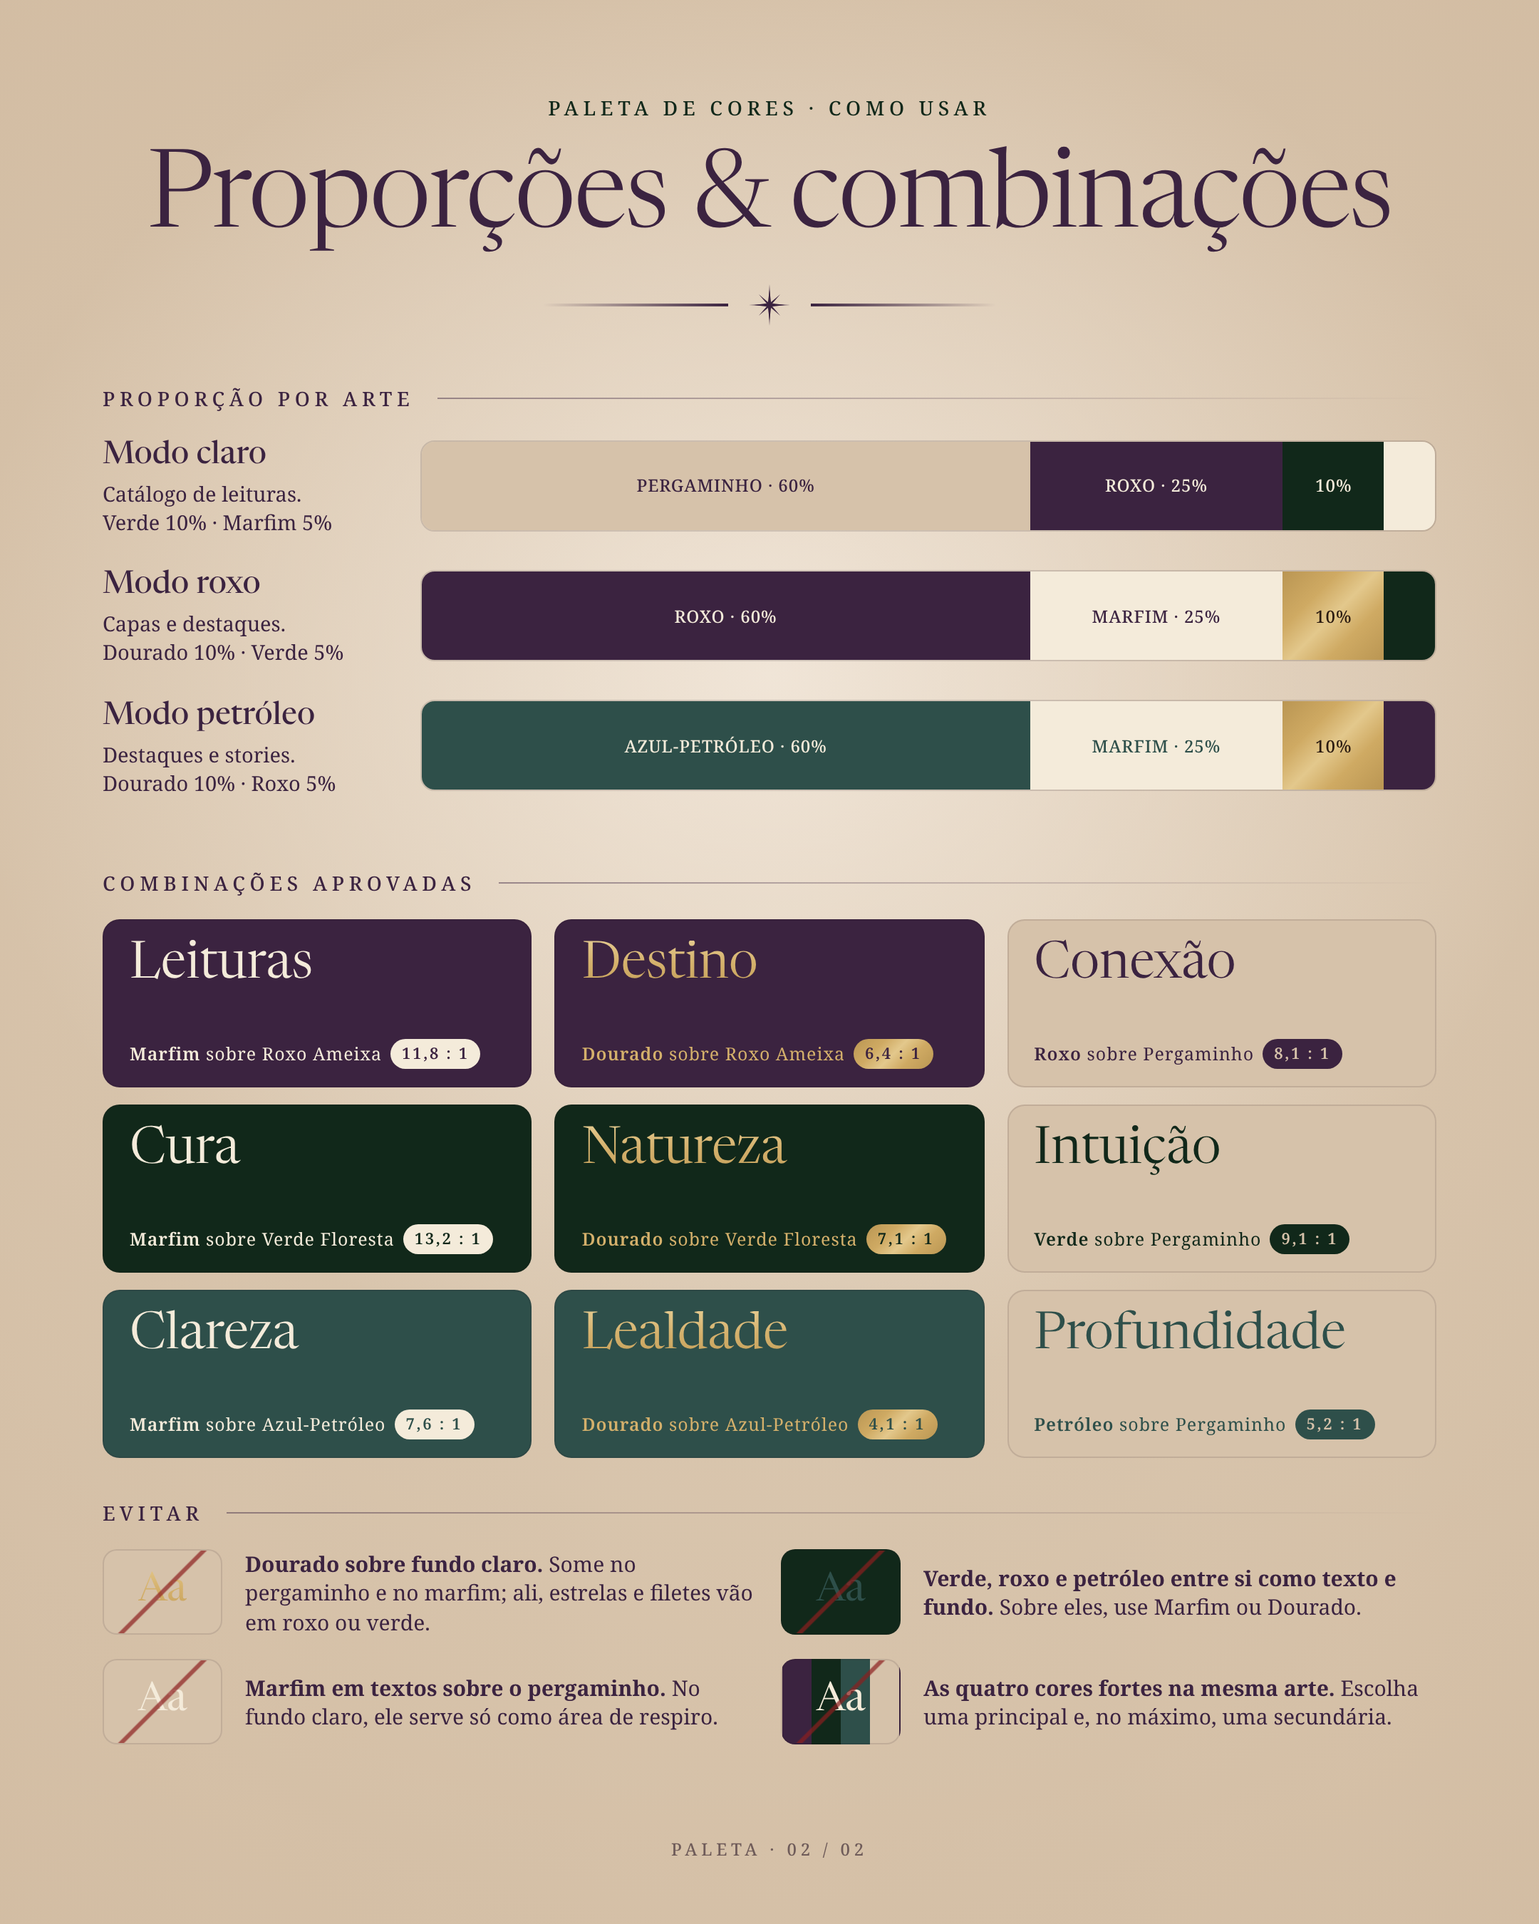
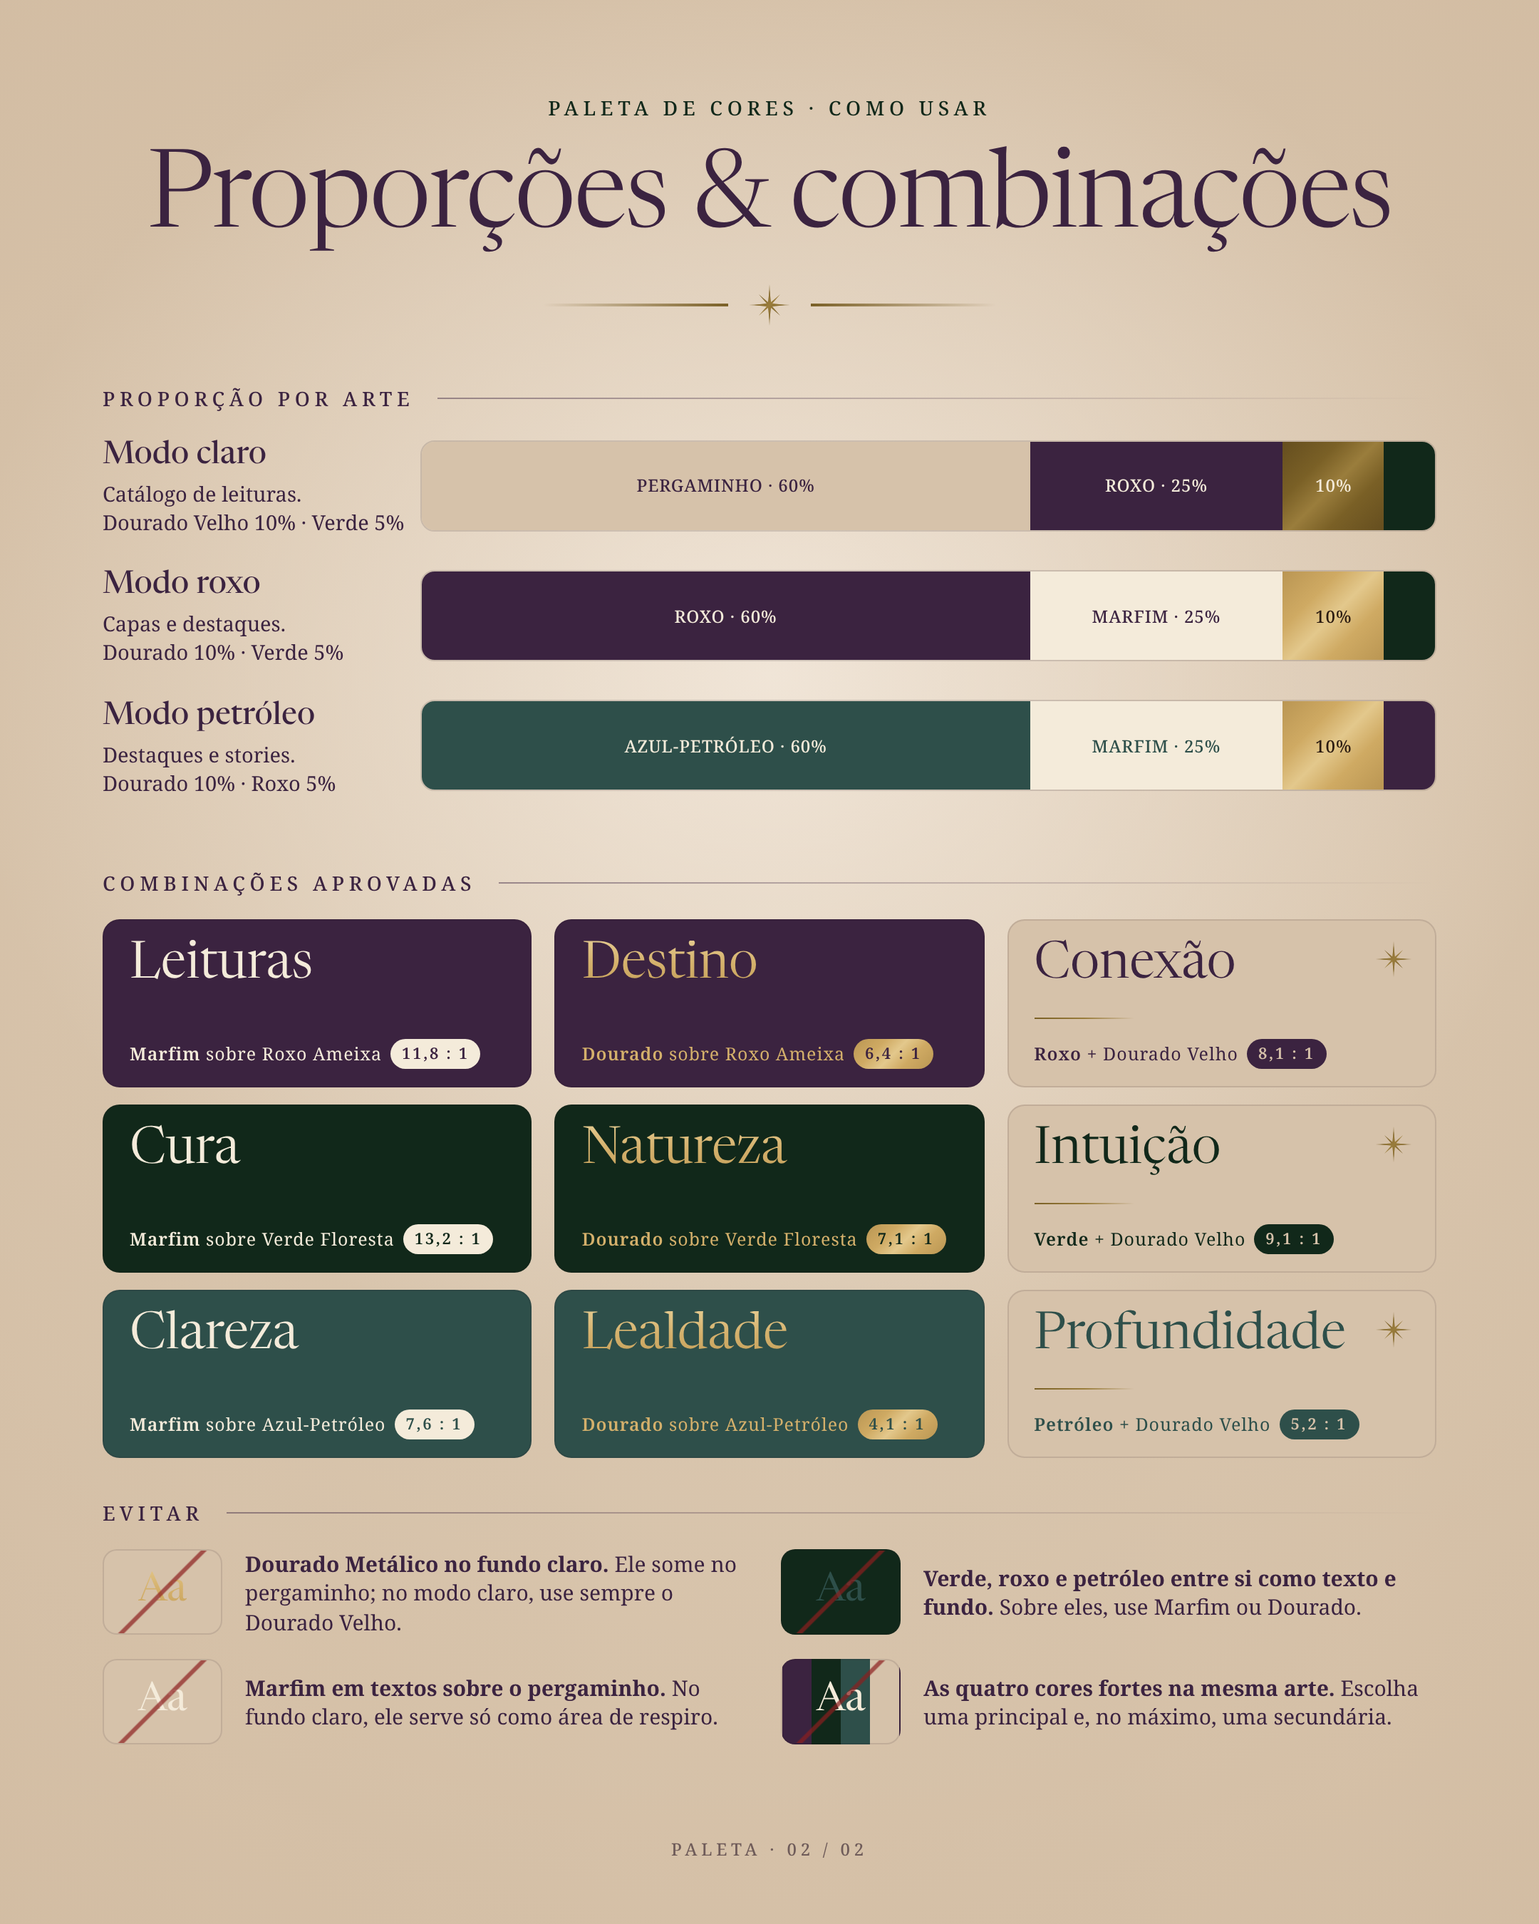
Paleta: dourado velho para o modo claro
Claude-Session: https://claude.ai/code/session_01GV2KUAp8ypSSPxbjxsJTeK

diff --git a/identidade/paleta/paleta.html b/identidade/paleta/paleta.html
@@ -7,7 +7,7 @@
 <style>
   :root{
     --roxo:#3B2340; --verde:#11281A; --petroleo:#2E4F4A;
-    --perg:#D6C2AA; --ouro:#CFAA63; --metal:linear-gradient(135deg,#BA9653 0%,#CFAA63 30%,#E3C88C 50%,#CFAA63 70%,#BA9653 100%); --linho:#F4EBDA; --tinta:#3B2340;
+    --perg:#D6C2AA; --ouro:#CFAA63; --metal:linear-gradient(135deg,#BA9653 0%,#CFAA63 30%,#E3C88C 50%,#CFAA63 70%,#BA9653 100%); --velho:linear-gradient(135deg,#654E1F 0%,#7A6026 30%,#9A7D3C 50%,#7A6026 70%,#654E1F 100%); --linho:#F4EBDA; --tinta:#3B2340;
   }
   *{margin:0;padding:0;box-sizing:border-box}
   body{background:#111;width:1080px}
@@ -15,6 +15,7 @@
   .tit{font-family:'Newsreader',serif;font-variation-settings:'opsz' 72;font-weight:340;letter-spacing:-.015em;line-height:1}
   .caps{font-weight:500;text-transform:uppercase;letter-spacing:.24em}
   .metal{background:linear-gradient(180deg,#E3C88C 0%,#D4B06B 45%,#C29E59 100%);-webkit-background-clip:text;background-clip:text;color:transparent !important}
+  .velho{background:linear-gradient(180deg,#957838 0%,#7A6026 50%,#654E1F 100%);-webkit-background-clip:text;background-clip:text;color:transparent !important}
   .orn{display:flex;align-items:center;justify-content:center;gap:14px}
   .orn i{display:block;height:1.2px;width:130px}
   .orn i:first-child{background:linear-gradient(90deg,transparent,#CFAA63)}
@@ -42,7 +43,7 @@
   .card .sig{grid-column:1/-1;font-style:italic;font-size:17px;color:var(--perg)}
   .card .rgb{grid-column:1/-1;font-size:13px;color:rgba(244,235,218,.6);letter-spacing:.08em}
 
-  .apoio{position:absolute;top:1026px;left:72px;right:72px}
+  .apoio{position:absolute;top:1030px;left:72px;right:72px}
   .apoio .rot{display:flex;align-items:center;gap:18px;font-size:13px;color:var(--ouro);margin-bottom:20px}
   .apoio .rot i{flex:1;height:1px;background:linear-gradient(90deg,rgba(212,176,106,.6),transparent)}
   .linha{display:grid;grid-template-columns:repeat(5,1fr);gap:16px}
@@ -68,6 +69,16 @@
   .ap .lin span{display:block;margin-top:4px;font-size:15px}
   .ap em{margin-top:8px !important}
   .ap small{display:block;font-size:12px;letter-spacing:.08em;color:rgba(244,235,218,.6);margin-top:10px}
+  .tres{display:grid;grid-template-columns:repeat(3,1fr);gap:18px}
+  .ap3{border-radius:14px;overflow:hidden;background:rgba(244,235,218,.06);border:1px solid rgba(212,176,106,.35)}
+  .ap3 .cor{height:62px}
+  .ap3 .tx{padding:12px 16px 14px}
+  .ap3 b{display:block;font-family:'Newsreader',serif;font-variation-settings:'opsz' 72;font-weight:400;font-size:25px;color:var(--linho);white-space:nowrap}
+  .ap3 span{display:block;font-size:14px;font-weight:500;color:var(--ouro);letter-spacing:.06em;margin-top:2px}
+  .ap3 em{display:block;font-size:13px;color:var(--perg);margin-top:6px;line-height:1.38}
+  .ap3 small{display:block;font-size:11px;letter-spacing:.06em;color:rgba(244,235,218,.6);margin-top:8px}
+  .ap3 .stops{margin-top:8px}
+  .ap3 .stops small{flex-basis:auto;margin:0 0 0 6px !important}
   .p1 .pe{position:absolute;bottom:44px;left:0;right:0;text-align:center;font-size:12px;color:rgba(212,176,106,.8)}
 
   /* ---------- página 2: clara ---------- */
@@ -79,8 +90,8 @@
   .p2 .eyebrow{font-size:14px;color:var(--verde);margin-bottom:18px}
   .p2 h1{font-size:76px;color:var(--roxo)}
   .p2 .orn{margin-top:20px}
-  .p2 .orn i:first-child{background:linear-gradient(90deg,transparent,#3B2340)}
-  .p2 .orn i:last-child{background:linear-gradient(90deg,#3B2340,transparent)}
+  .p2 .orn i:first-child{background:linear-gradient(90deg,transparent,#7A6026)}
+  .p2 .orn i:last-child{background:linear-gradient(90deg,#7A6026,transparent)}
 
   .sec{position:absolute;left:72px;right:72px}
   .sec h4{font-size:14px;color:var(--roxo);display:flex;align-items:center;gap:16px;margin-bottom:16px}
@@ -93,6 +104,9 @@
 
   .combos{display:grid;grid-template-columns:repeat(3,1fr);gap:12px 16px}
   .cb{border-radius:12px;height:118px;padding:14px 18px 12px;display:flex;flex-direction:column;justify-content:space-between;border:1px solid rgba(42,24,36,.12)}
+  .cb{position:relative}
+  .cb svg.ve{position:absolute;top:14px;right:16px}
+  .cb .t + svg.ve + .d::before{content:"";display:block;width:70px;height:1.4px;margin:-10px 0 14px;background:linear-gradient(90deg,#7A6026,#9A7D3C,rgba(122,96,38,0))}
   .cb .t{font-family:'Newsreader',serif;font-variation-settings:'opsz' 72;font-weight:360;font-size:36px;line-height:1}
   .cb .d{font-size:12.5px;letter-spacing:.04em;line-height:1.35}
   .cb .d b{font-weight:600}
@@ -113,6 +127,11 @@
       <path d="M0-22 L2.2-4.2 L15.6-15.6 L4.2-2.2 L22 0 L4.2 2.2 L15.6 15.6 L2.2 4.2 L0 22 L-2.2 4.2 L-15.6 15.6 L-4.2 2.2 L-22 0 L-4.2-2.2 L-15.6-15.6 L-2.2-4.2Z"/>
       <path d="M0-30 L1.1-9 L0 0 L-1.1-9Z M0 30 L1.1 9 L0 0 L-1.1 9Z M-30 0 L-9 1.1 L0 0 L-9-1.1Z M30 0 L9 1.1 L0 0 L9-1.1Z"/>
     </g>
+    <linearGradient id="gvelho" x1="0" y1="0" x2="1" y2="1"><stop offset="0" stop-color="#654E1F"/><stop offset=".5" stop-color="#9A7D3C"/><stop offset="1" stop-color="#654E1F"/></linearGradient>
+    <g id="estrelaVelho" fill="url(#gvelho)">
+      <path d="M0-22 L2.2-4.2 L15.6-15.6 L4.2-2.2 L22 0 L4.2 2.2 L15.6 15.6 L2.2 4.2 L0 22 L-2.2 4.2 L-15.6 15.6 L-4.2 2.2 L-22 0 L-4.2-2.2 L-15.6-15.6 L-2.2-4.2Z"/>
+      <path d="M0-30 L1.1-9 L0 0 L-1.1-9Z M0 30 L1.1 9 L0 0 L-1.1 9Z M-30 0 L-9 1.1 L0 0 L-9-1.1Z M30 0 L9 1.1 L0 0 L9-1.1Z"/>
+    </g>
     <g id="estrela8">
       <path fill="currentColor" d="M0-22 L2.2-4.2 L15.6-15.6 L4.2-2.2 L22 0 L4.2 2.2 L15.6 15.6 L2.2 4.2 L0 22 L-2.2 4.2 L-15.6 15.6 L-4.2 2.2 L-22 0 L-4.2-2.2 L-15.6-15.6 L-2.2-4.2Z"/>
       <path fill="currentColor" d="M0-30 L1.1-9 L0 0 L-1.1-9Z M0 30 L1.1 9 L0 0 L-1.1 9Z M-30 0 L-9 1.1 L0 0 L-9-1.1Z M30 0 L9 1.1 L0 0 L9-1.1Z"/>
@@ -128,7 +147,7 @@
     <div class="orn"><i></i><svg width="46" height="46" viewBox="-31 -31 62 62"><use href="#estrelaOuro"/></svg><i></i></div>
     <div class="eyebrow caps metal" style="margin-top:18px">Identidade visual · Lara Oraculista</div>
     <h1 class="tit">Paleta de cores</h1>
-    <div class="sub">Quatro cores principais e duas cores de apoio.</div>
+    <div class="sub">Quatro cores principais e três cores de apoio.</div>
   </div>
 
   <div class="principais">
@@ -148,12 +167,15 @@
 
   <div class="apoio">
     <div class="rot caps"><span>Cores de apoio</span><i></i></div>
-    <div class="duas">
-      <div class="ap"><div class="cor ouro"></div>
-        <div class="tx"><div class="lin"><b class="metal">Dourado Metálico</b><span>#CFAA63</span></div><em>Folha de ouro: estrelas, filetes e títulos sobre fundos escuros</em>
-        <div class="stops"><i style="background:#E3C88C"></i><i style="background:#CFAA63"></i><i style="background:#BA9653"></i><small>brilho E3C88C · base CFAA63 · sombra BA9653</small></div></div></div>
-      <div class="ap"><div class="cor" style="background:#F4EBDA"></div>
-        <div class="tx"><div class="lin"><b>Marfim</b><span>#F4EBDA</span></div><em>Textos sobre fundos escuros e áreas de respiro no fundo claro</em><small>RGB 244 · 235 · 218</small></div></div>
+    <div class="tres">
+      <div class="ap3"><div class="cor" style="background:var(--metal)"></div>
+        <div class="tx"><b class="metal">Dourado Metálico</b><span>#CFAA63</span><em>Para fundos escuros: estrelas, filetes e títulos</em>
+        <div class="stops"><i style="background:#E3C88C"></i><i style="background:#CFAA63"></i><i style="background:#BA9653"></i><small>E3C88C · CFAA63 · BA9653</small></div></div></div>
+      <div class="ap3"><div class="cor" style="background:var(--velho)"></div>
+        <div class="tx"><b style="color:#B59A5E">Dourado Velho</b><span>#7A6026</span><em>Para o modo claro: estrelas, filetes e títulos no pergaminho</em>
+        <div class="stops"><i style="background:#9A7D3C"></i><i style="background:#7A6026"></i><i style="background:#654E1F"></i><small>9A7D3C · 7A6026 · 654E1F</small></div></div></div>
+      <div class="ap3"><div class="cor" style="background:#F4EBDA"></div>
+        <div class="tx"><b>Marfim</b><span>#F4EBDA</span><em>Textos sobre fundos escuros e áreas de respiro no fundo claro</em><small>RGB 244 · 235 · 218</small></div></div>
     </div>
   </div>
   <div class="pe caps">Paleta · 01 / 02</div>
@@ -164,18 +186,18 @@
   <div class="cab">
     <div class="eyebrow caps">Paleta de cores · Como usar</div>
     <h1 class="tit">Proporções &amp; combinações</h1>
-    <div class="orn" style="color:#3B2340"><i></i><svg width="30" height="30" viewBox="-31 -31 62 62"><use href="#estrela8"/></svg><i></i></div>
+    <div class="orn"><i></i><svg width="30" height="30" viewBox="-31 -31 62 62"><use href="#estrelaVelho"/></svg><i></i></div>
   </div>
 
   <div class="sec" style="top:270px">
     <h4 class="caps"><span>Proporção por arte</span><i></i></h4>
     <div class="modo">
-      <p><b>Modo claro</b>Catálogo de leituras.<br>Verde 10% · Marfim 5%</p>
+      <p><b>Modo claro</b>Catálogo de leituras.<br>Dourado Velho 10% · Verde 5%</p>
       <div class="prop">
         <div style="flex:60;background:#D6C2AA;color:#3B2340">PERGAMINHO · 60%</div>
         <div style="flex:25;background:#3B2340;color:#F4EBDA">ROXO · 25%</div>
-        <div style="flex:10;background:#11281A;color:#F4EBDA">10%</div>
-        <div style="flex:5;background:#F4EBDA"></div>
+        <div style="flex:10;background:var(--velho);color:#F4EBDA">10%</div>
+        <div style="flex:5;background:#11281A"></div>
       </div>
     </div>
     <div class="modo">
@@ -203,20 +225,20 @@
     <div class="combos">
       <div class="cb" style="background:#3B2340;color:#F4EBDA"><div class="t">Leituras</div><div class="d"><b>Marfim</b> sobre Roxo Ameixa<span class="ok" style="background:#F4EBDA;color:#3B2340">11,8 : 1</span></div></div>
       <div class="cb" style="background:#3B2340;color:#D4B06B"><div class="t metal">Destino</div><div class="d"><b>Dourado</b> sobre Roxo Ameixa<span class="ok" style="background:var(--metal);color:#3B2340">6,4 : 1</span></div></div>
-      <div class="cb" style="background:#D6C2AA;color:#3B2340"><div class="t">Conexão</div><div class="d"><b>Roxo</b> sobre Pergaminho<span class="ok" style="background:#3B2340;color:#D6C2AA">8,1 : 1</span></div></div>
+      <div class="cb" style="background:#D6C2AA;color:#3B2340"><div class="t">Conexão</div><svg class="ve" width="26" height="26" viewBox="-31 -31 62 62"><use href="#estrelaVelho"/></svg><div class="d"><b>Roxo</b> + Dourado Velho<span class="ok" style="background:#3B2340;color:#D6C2AA">8,1 : 1</span></div></div>
       <div class="cb" style="background:#11281A;color:#F4EBDA"><div class="t">Cura</div><div class="d"><b>Marfim</b> sobre Verde Floresta<span class="ok" style="background:#F4EBDA;color:#11281A">13,2 : 1</span></div></div>
       <div class="cb" style="background:#11281A;color:#D4B06B"><div class="t metal">Natureza</div><div class="d"><b>Dourado</b> sobre Verde Floresta<span class="ok" style="background:var(--metal);color:#11281A">7,1 : 1</span></div></div>
-      <div class="cb" style="background:#D6C2AA;color:#11281A"><div class="t">Intuição</div><div class="d"><b>Verde</b> sobre Pergaminho<span class="ok" style="background:#11281A;color:#D6C2AA">9,1 : 1</span></div></div>
+      <div class="cb" style="background:#D6C2AA;color:#11281A"><div class="t">Intuição</div><svg class="ve" width="26" height="26" viewBox="-31 -31 62 62"><use href="#estrelaVelho"/></svg><div class="d"><b>Verde</b> + Dourado Velho<span class="ok" style="background:#11281A;color:#D6C2AA">9,1 : 1</span></div></div>
       <div class="cb" style="background:#2E4F4A;color:#F4EBDA"><div class="t">Clareza</div><div class="d"><b>Marfim</b> sobre Azul-Petróleo<span class="ok" style="background:#F4EBDA;color:#2E4F4A">7,6 : 1</span></div></div>
       <div class="cb" style="background:#2E4F4A;color:#D4B06B"><div class="t metal">Lealdade</div><div class="d"><b>Dourado</b> sobre Azul-Petróleo<span class="ok" style="background:var(--metal);color:#2E4F4A">4,1 : 1</span></div></div>
-      <div class="cb" style="background:#D6C2AA;color:#2E4F4A"><div class="t">Profundidade</div><div class="d"><b>Petróleo</b> sobre Pergaminho<span class="ok" style="background:#2E4F4A;color:#D6C2AA">5,2 : 1</span></div></div>
+      <div class="cb" style="background:#D6C2AA;color:#2E4F4A"><div class="t">Profundidade</div><svg class="ve" width="26" height="26" viewBox="-31 -31 62 62"><use href="#estrelaVelho"/></svg><div class="d"><b>Petróleo</b> + Dourado Velho<span class="ok" style="background:#2E4F4A;color:#D6C2AA">5,2 : 1</span></div></div>
     </div>
   </div>
 
   <div class="sec" style="top:1052px">
     <h4 class="caps"><span>Evitar</span><i></i></h4>
     <div class="evitar">
-      <div class="ev"><div class="x" style="background:#D6C2AA"><span class="metal">Aa</span></div><div><b>Dourado sobre fundo claro.</b> Some no pergaminho e no marfim; ali, estrelas e filetes vão em roxo ou verde.</div></div>
+      <div class="ev"><div class="x" style="background:#D6C2AA"><span class="metal">Aa</span></div><div><b>Dourado Metálico no fundo claro.</b> Ele some no pergaminho; no modo claro, use sempre o Dourado Velho.</div></div>
       <div class="ev"><div class="x" style="background:#11281A;color:#2E4F4A">Aa</div><div><b>Verde, roxo e petróleo entre si como texto e fundo.</b> Sobre eles, use Marfim ou Dourado.</div></div>
       <div class="ev"><div class="x" style="background:#D6C2AA;color:#F4EBDA">Aa</div><div><b>Marfim em textos sobre o pergaminho.</b> No fundo claro, ele serve só como área de respiro.</div></div>
       <div class="ev"><div class="x" style="background:linear-gradient(90deg,#3B2340 25%,#11281A 25% 50%,#2E4F4A 50% 75%,#D6C2AA 75%);color:#F4EBDA">Aa</div><div><b>As quatro cores fortes na mesma arte.</b> Escolha uma principal e, no máximo, uma secundária.</div></div>

diff --git a/identidade/paleta/cores.md b/identidade/paleta/cores.md
@@ -12,9 +12,10 @@
 | Cor | HEX | RGB | Uso |
 |---|---|---|---|
 | Dourado Metálico | #CFAA63 (cor base) | 207, 170, 99 | Folha de ouro: estrelas, filetes e títulos sobre fundos escuros |
+| Dourado Velho | #7A6026 (cor base) | 122, 96, 38 | Modo claro: estrelas, filetes e títulos sobre o pergaminho |
 | Marfim | #F4EBDA | 244, 235, 218 | Textos sobre fundos escuros e áreas de respiro no fundo claro |
 
-### Como fazer o efeito metálico
+### Como fazer o efeito metálico (Dourado Metálico — fundos escuros)
 Degradê suave e homogêneo, com só 3 tons e um único brilho no centro:
 `#BA9653` (sombra) → `#CFAA63` (base) → `#E3C88C` (brilho) → `#CFAA63` → `#BA9653`
 
@@ -23,8 +24,16 @@ Degradê suave e homogêneo, com só 3 tons e um único brilho no centro:
 - Quando não der para usar degradê (ex.: texto pequeno), use a cor base `#CFAA63`.
 - No Canva: selecione o elemento → Cor → "Degradê" e insira os códigos acima.
 
+### Dourado Velho (modo claro)
+O Dourado Metálico some no pergaminho. No modo claro, todo detalhe dourado usa o Dourado Velho:
+`#654E1F` (sombra) → `#7A6026` (base) → `#9A7D3C` (brilho) → `#7A6026` → `#654E1F`
+
+- Em títulos: degradê vertical de `#957838` (em cima) para `#654E1F` (embaixo).
+- Em estrelas e filetes: degradê diagonal com o brilho no meio.
+- Cor única: `#7A6026` (contraste 3,5 : 1 no pergaminho; bom para títulos e ornamentos — textos pequenos ficam em roxo ou verde).
+
 ## Proporções
-- Modo claro (catálogo): Pergaminho 60% · Roxo 25% · Verde 10% · Marfim 5%
+- Modo claro (catálogo): Pergaminho 60% · Roxo 25% · Dourado Velho 10% · Verde 5%
 - Modo roxo (capas e destaques): Roxo 60% · Marfim 25% · Dourado 10% · Verde 5%
 - Modo petróleo (destaques e stories): Azul-Petróleo 60% · Marfim 25% · Dourado 10% · Roxo 5%
 
@@ -36,11 +45,12 @@ Degradê suave e homogêneo, com só 3 tons e um único brilho no centro:
 - Marfim sobre Azul-Petróleo — 7,6 : 1
 - Dourado sobre Azul-Petróleo — 4,1 : 1 (prefira títulos e ornamentos)
 - Azul-Petróleo sobre Pergaminho — 5,2 : 1
+- Dourado Velho sobre Pergaminho — 3,5 : 1 (títulos e ornamentos)
 - Roxo sobre Pergaminho — 8,1 : 1
 - Verde sobre Pergaminho — 9,1 : 1
 
 ## Evitar
-- Dourado sobre fundo claro (pergaminho ou marfim): some. No fundo claro, estrelas e filetes vão em roxo ou verde.
+- Dourado Metálico no fundo claro: some. No modo claro, use sempre o Dourado Velho.
 - Verde, roxo e petróleo entre si como texto e fundo: sobre eles, use Marfim ou Dourado.
 - Marfim em textos sobre o pergaminho: no fundo claro, ele serve só como área de respiro.
 - As quatro cores fortes na mesma arte: uma principal + no máximo uma secundária.
